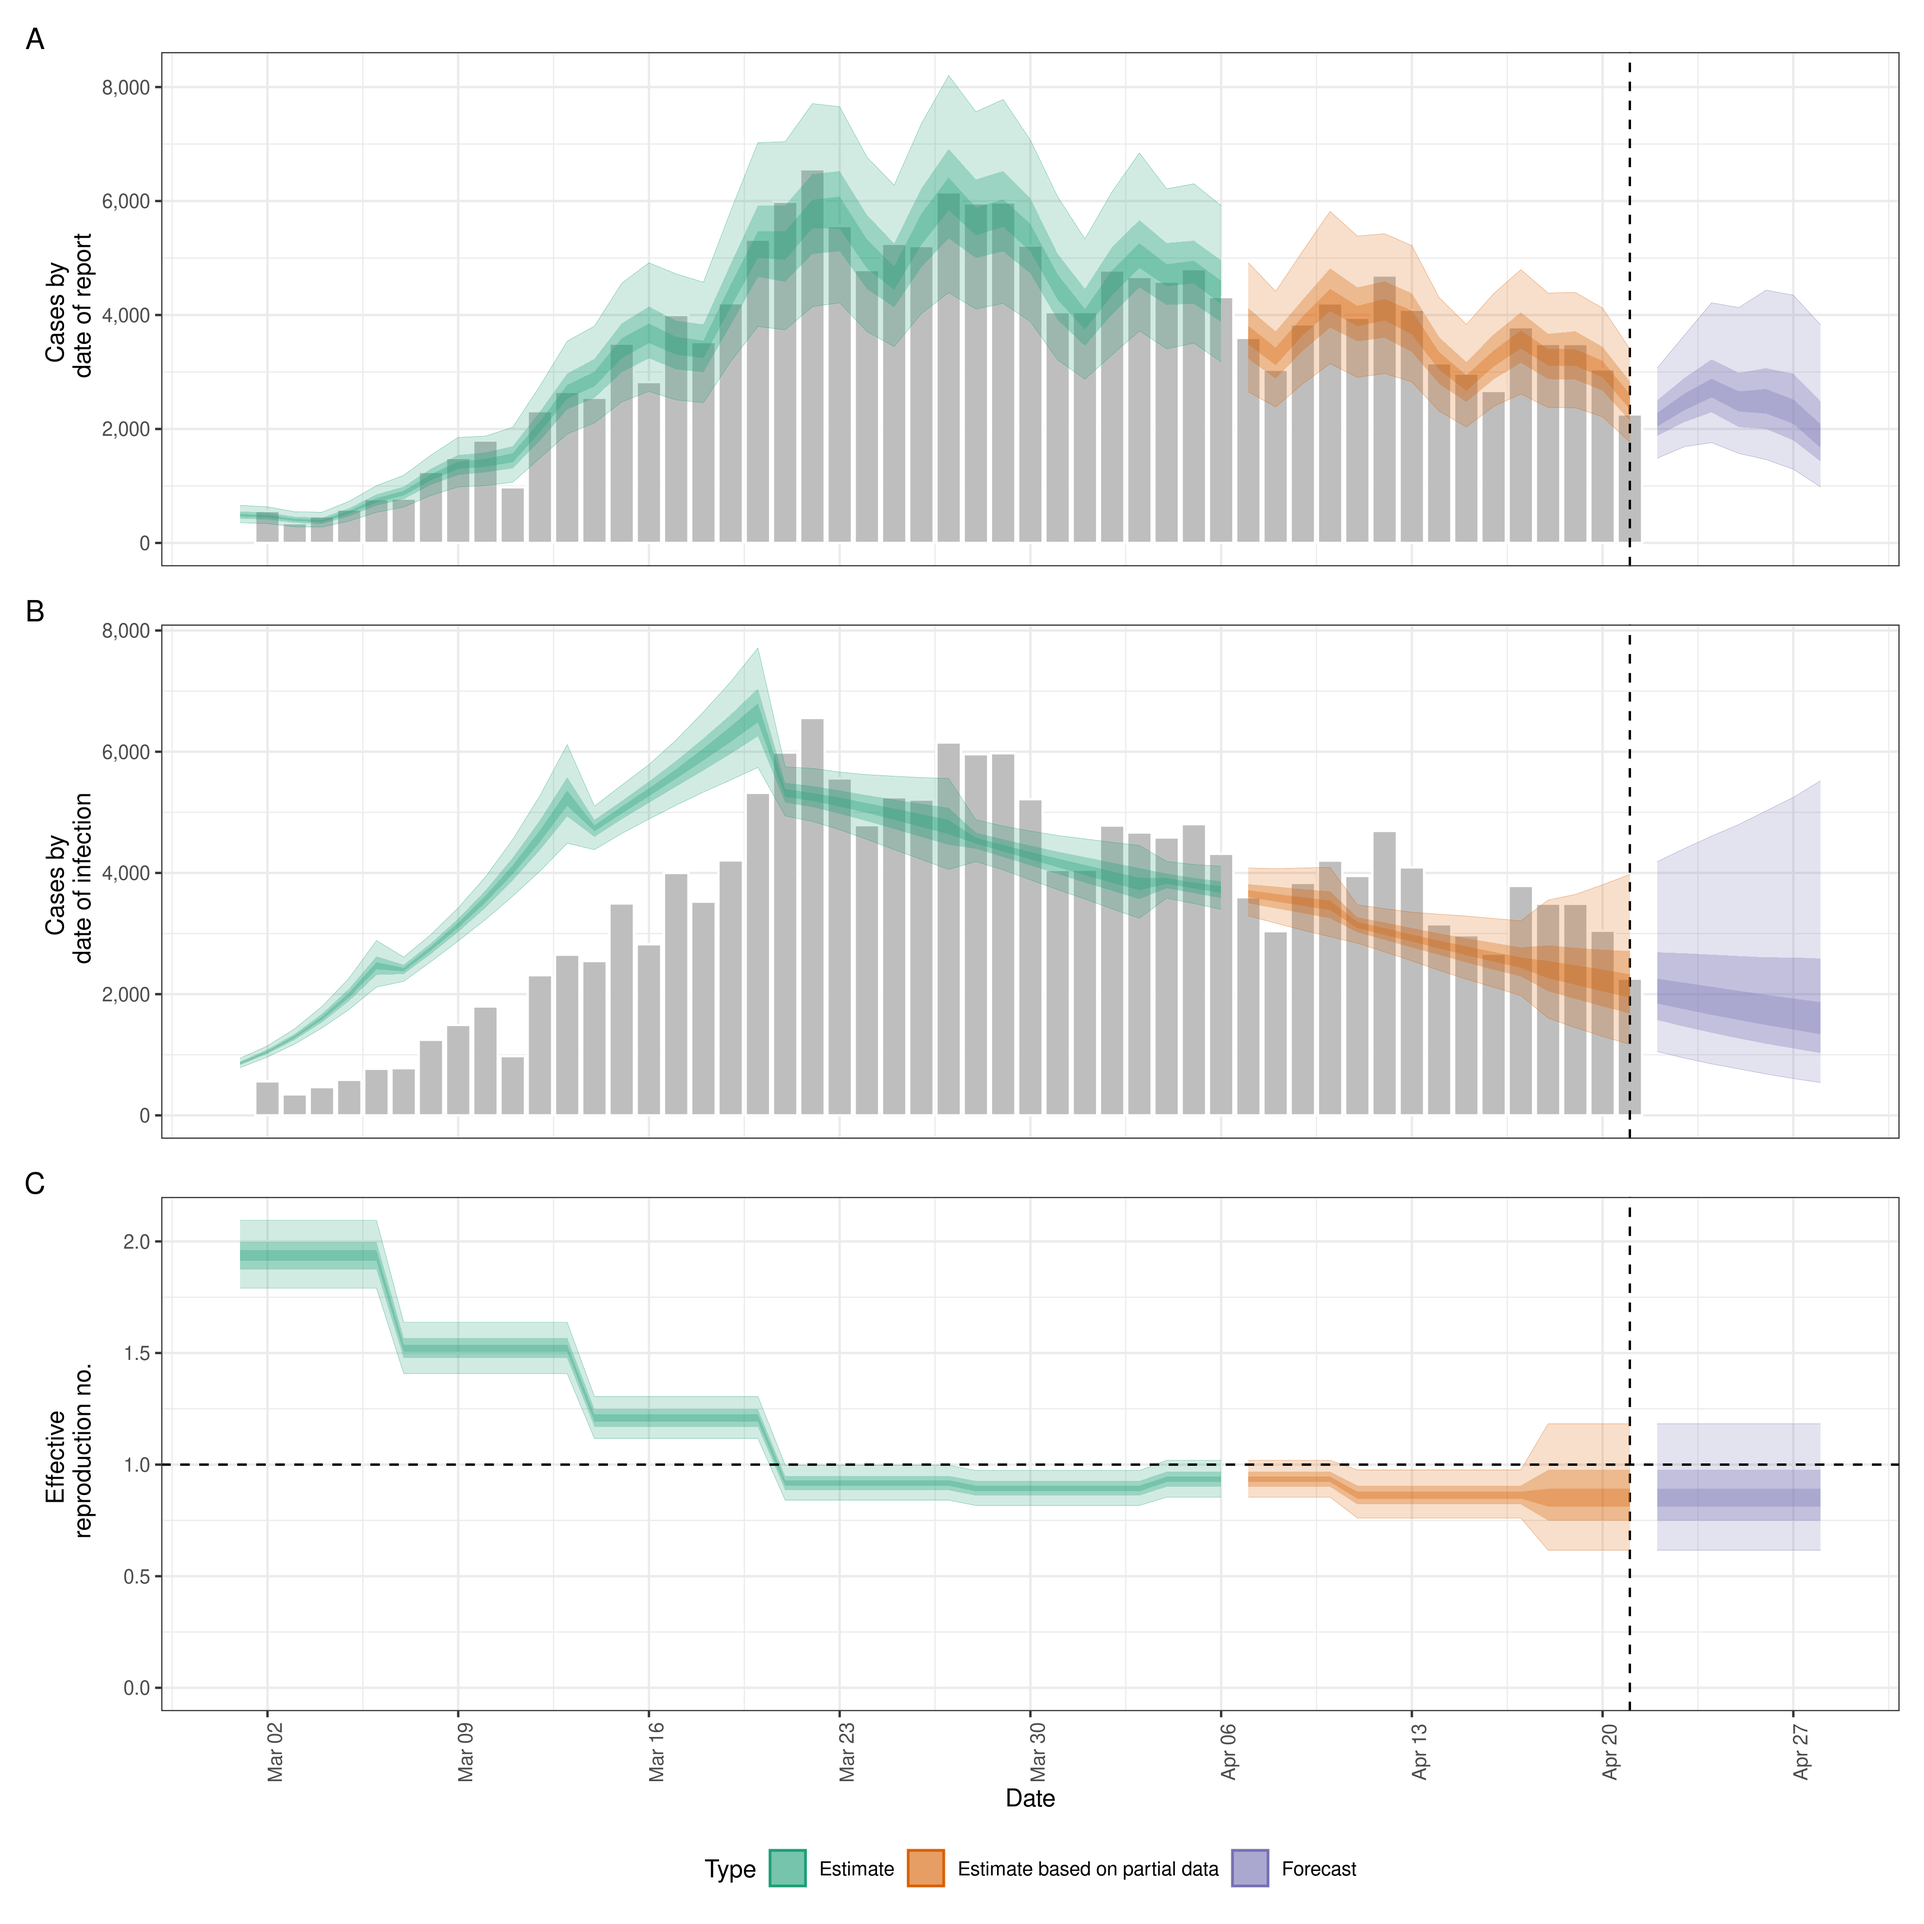
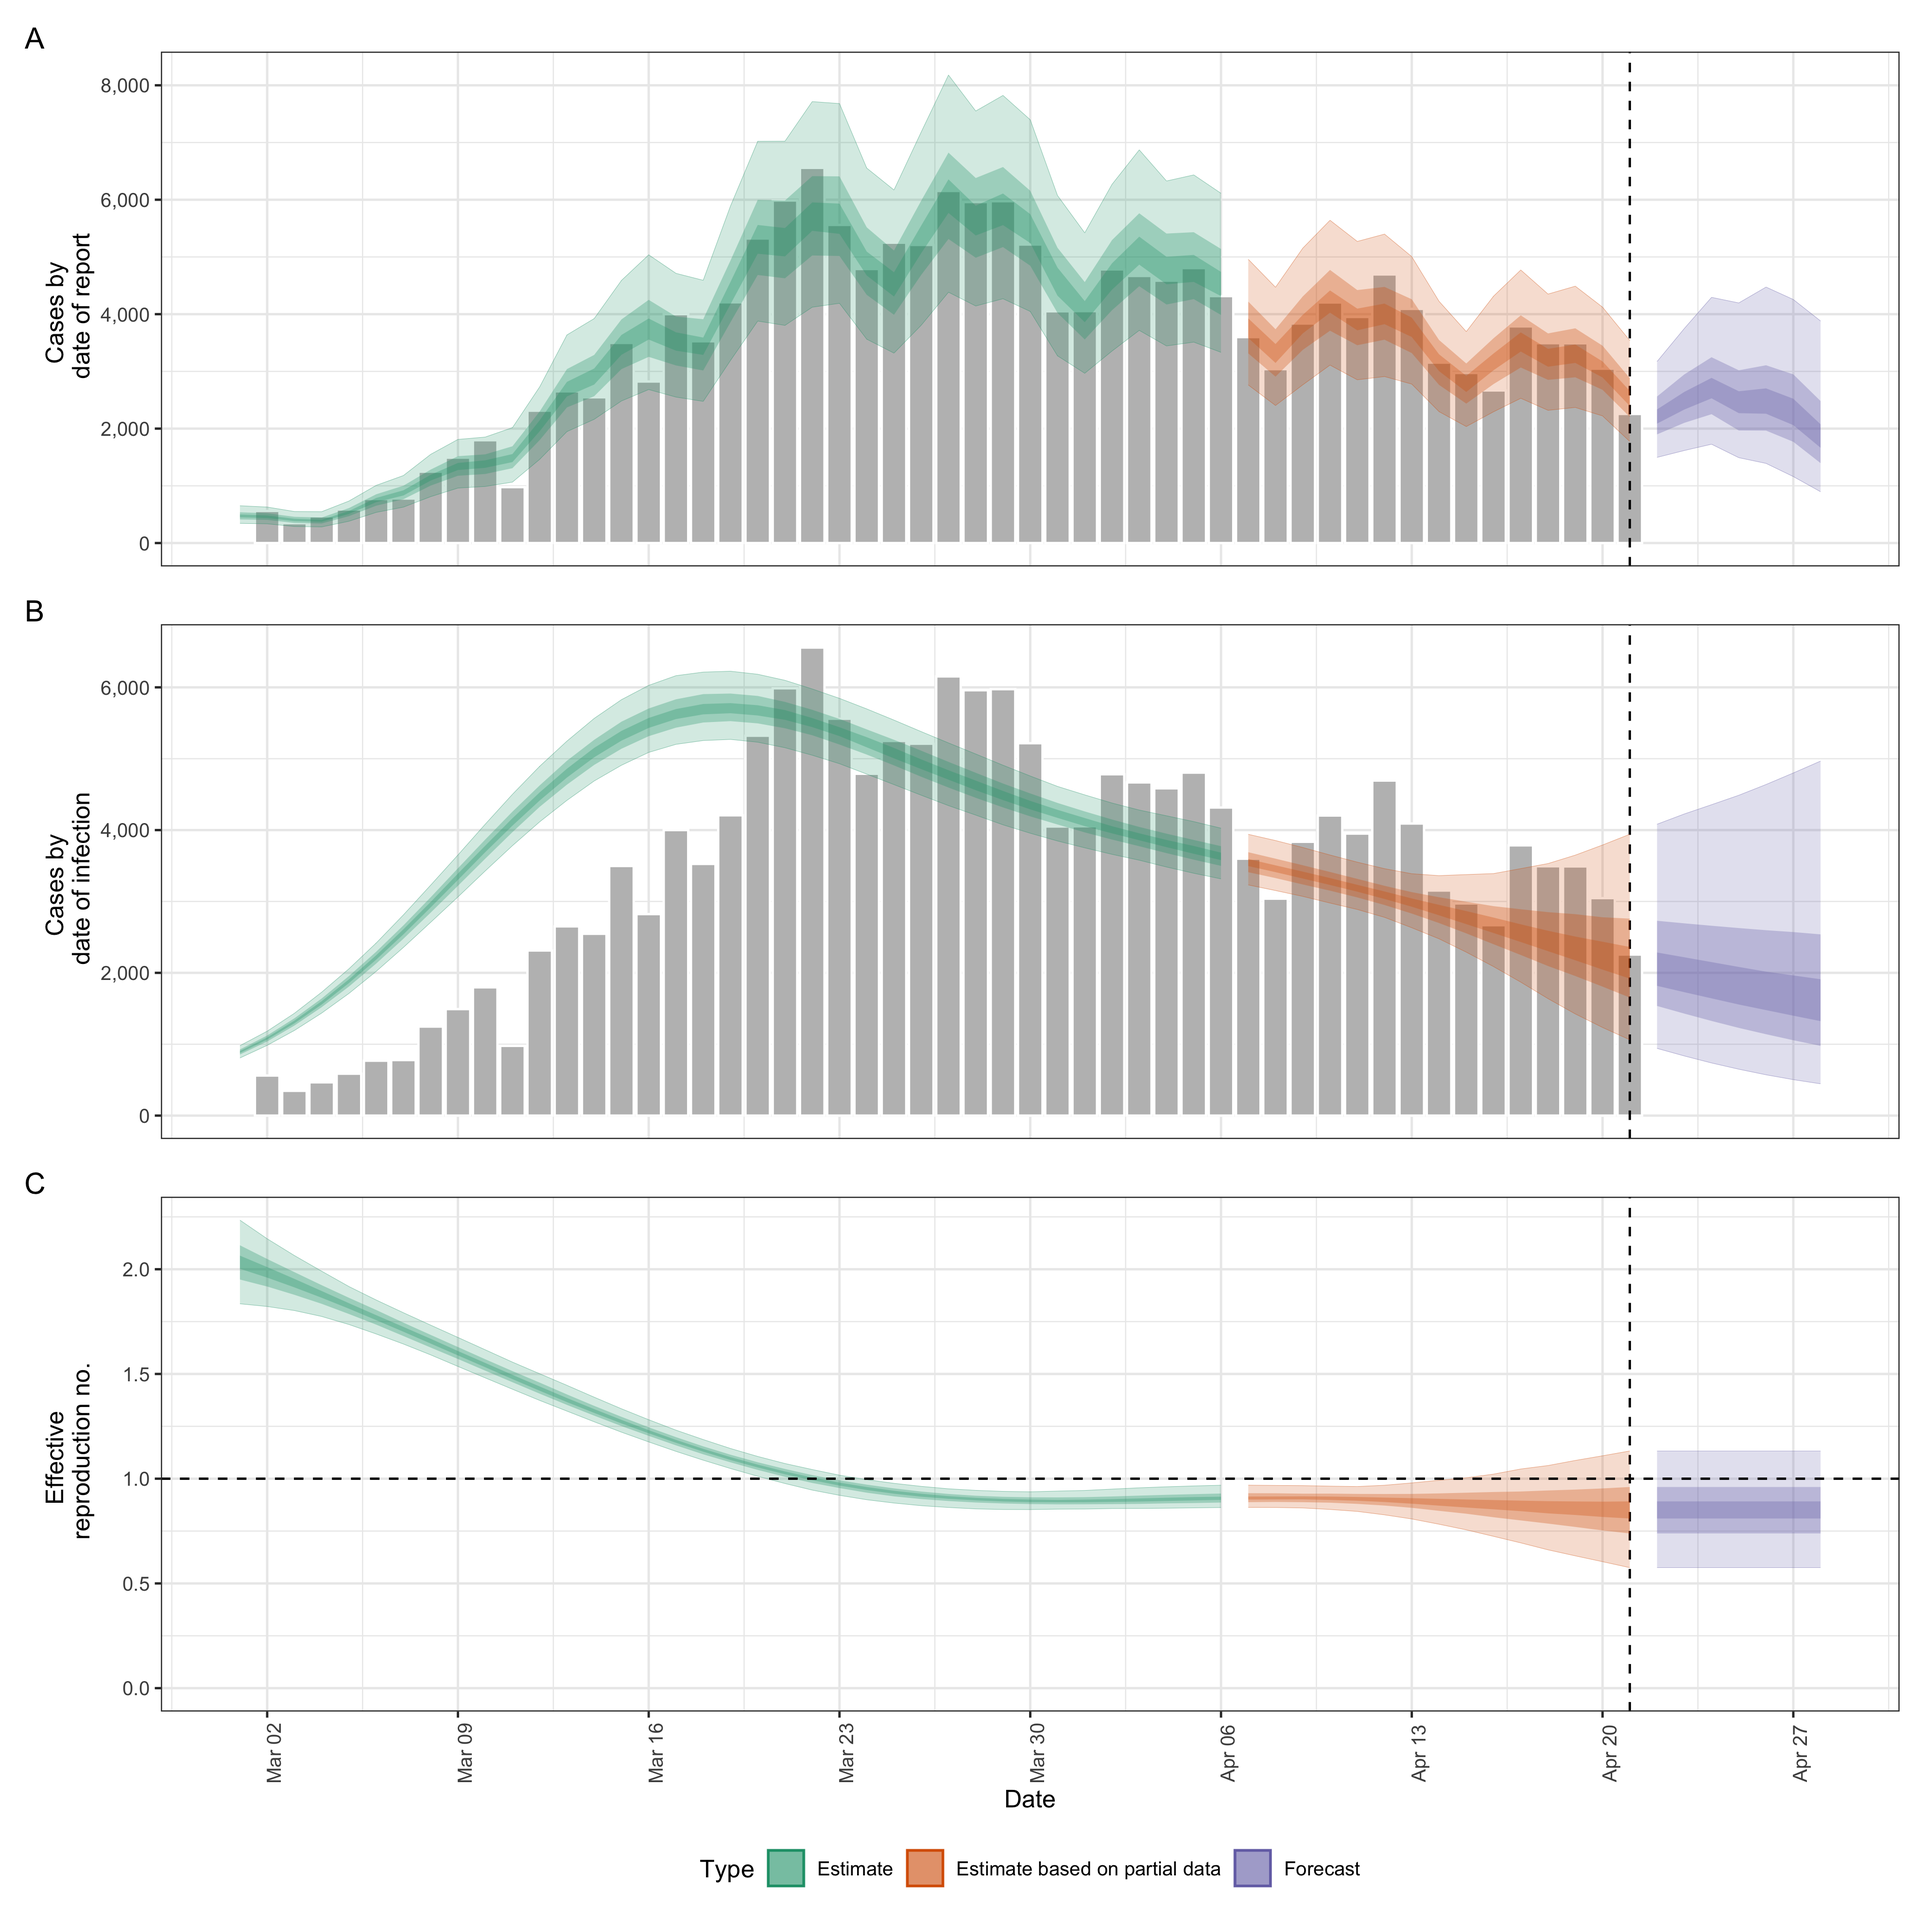
update rendered README

diff --git a/README.md b/README.md
@@ -200,6 +200,7 @@ Load example case data from `{EpiNow2}`.
 reported_cases <- example_confirmed[1:60]
 head(reported_cases)
 #>          date confirm
+#>        <Date>   <num>
 #> 1: 2020-02-22      14
 #> 2: 2020-02-23      62
 #> 3: 2020-02-24      53
@@ -213,18 +214,24 @@ number, the rate of growth and forecast these estimates into the future
 by 7 days. Summarise the posterior and return a summary table and plots
 for reporting purposes. If a `target_folder` is supplied results can be
 internally saved (with the option to also turn off explicit returning of
-results). *Note: Here we use a weekly random walk rather than the full
-daily Gaussian process model to reduce run-times.*.
+results). Here we use the default model parameterisation that priorities
+real-time performance over run-time or other considerations. For other
+formulations see the documentation for `estimate_infections()`.
 
 ``` r
 estimates <- epinow(
   reported_cases = reported_cases,
   generation_time = generation_time,
   delays = delay_opts(incubation_period, reporting_delay),
-  rt = rt_opts(prior = list(mean = 2, sd = 0.2), , rw = 7),
-  stan = stan_opts(cores = 4), gp = NULL,
+  rt = rt_opts(prior = list(mean = 2, sd = 0.2)),
+  stan = stan_opts(cores = 4),
   verbose = interactive()
 )
+#> WARN [2022-10-17 14:32:32] epinow: There were 7 divergent transitions after warmup. See
+#> https://mc-stan.org/misc/warnings.html#divergent-transitions-after-warmup
+#> to find out why this is a problem and how to eliminate them. - 
+#> WARN [2022-10-17 14:32:32] epinow: Examine the pairs() plot to diagnose sampling problems
+#>  -
 names(estimates)
 #> [1] "estimates"                "estimated_reported_cases"
 #> [3] "summary"                  "plots"                   
@@ -242,31 +249,33 @@ knitr::kable(summary(estimates))
 
 | measure                               | estimate               |
 |:--------------------------------------|:-----------------------|
-| New confirmed cases by infection date | 2124 (1171 – 3975)     |
+| New confirmed cases by infection date | 2129 (1062 – 3941)     |
 | Expected change in daily cases        | Likely decreasing      |
-| Effective reproduction no.            | 0.85 (0.62 – 1.2)      |
-| Rate of growth                        | -0.042 (-0.11 – 0.049) |
-| Doubling/halving time (days)          | -17 (14 – -6.2)        |
+| Effective reproduction no.            | 0.85 (0.58 – 1.1)      |
+| Rate of growth                        | -0.043 (-0.13 – 0.036) |
+| Doubling/halving time (days)          | -16 (19 – -5.5)        |
 
 Summarised parameter estimates can also easily be returned, either
 filtered for a single parameter or for all parameters.
 
 ``` r
 head(summary(estimates, type = "parameters", params = "R"))
-#>          date variable strat     type   median     mean         sd lower_90
-#> 1: 2020-03-01        R  <NA> estimate 1.938637 1.939263 0.09247069 1.790875
-#> 2: 2020-03-02        R  <NA> estimate 1.938637 1.939263 0.09247069 1.790875
-#> 3: 2020-03-03        R  <NA> estimate 1.938637 1.939263 0.09247069 1.790875
-#> 4: 2020-03-04        R  <NA> estimate 1.938637 1.939263 0.09247069 1.790875
-#> 5: 2020-03-05        R  <NA> estimate 1.938637 1.939263 0.09247069 1.790875
-#> 6: 2020-03-06        R  <NA> estimate 1.938637 1.939263 0.09247069 1.790875
+#>          date variable  strat     type   median     mean         sd lower_90
+#>        <Date>   <char> <char>   <char>    <num>    <num>      <num>    <num>
+#> 1: 2020-03-01        R   <NA> estimate 2.032944 2.034600 0.12263909 1.835007
+#> 2: 2020-03-02        R   <NA> estimate 1.985030 1.984939 0.09867913 1.822082
+#> 3: 2020-03-03        R   <NA> estimate 1.934373 1.933439 0.07997513 1.802737
+#> 4: 2020-03-04        R   <NA> estimate 1.880721 1.880345 0.06627518 1.774494
+#> 5: 2020-03-05        R   <NA> estimate 1.825444 1.825928 0.05691746 1.736169
+#> 6: 2020-03-06        R   <NA> estimate 1.769794 1.770473 0.05090067 1.690933
 #>    lower_50 lower_20 upper_20 upper_50 upper_90
-#> 1: 1.874161 1.913719  1.95999  1.99843 2.094506
-#> 2: 1.874161 1.913719  1.95999  1.99843 2.094506
-#> 3: 1.874161 1.913719  1.95999  1.99843 2.094506
-#> 4: 1.874161 1.913719  1.95999  1.99843 2.094506
-#> 5: 1.874161 1.913719  1.95999  1.99843 2.094506
-#> 6: 1.874161 1.913719  1.95999  1.99843 2.094506
+#>       <num>    <num>    <num>    <num>    <num>
+#> 1: 1.950837 2.002272 2.064961 2.114401 2.234420
+#> 2: 1.917444 1.960005 2.010231 2.048900 2.145482
+#> 3: 1.877844 1.913317 1.954001 1.986164 2.065259
+#> 4: 1.834894 1.863750 1.895996 1.923908 1.990647
+#> 5: 1.786278 1.811667 1.837823 1.863695 1.917388
+#> 6: 1.735544 1.756891 1.780755 1.805549 1.853105
 ```
 
 Reported cases are returned in a separate data frame in order to
@@ -274,20 +283,22 @@ streamline the reporting of forecasts and for model evaluation.
 
 ``` r
 head(summary(estimates, output = "estimated_reported_cases"))
-#>          date  type median     mean        sd lower_90 lower_50 lower_20
-#> 1: 2020-03-01 gp_rt  485.0 493.6445  95.01762   354.95   426.75    463.0
-#> 2: 2020-03-02 gp_rt  468.0 474.4640  90.45885   337.95   411.00    447.0
-#> 3: 2020-03-03 gp_rt  405.0 408.3520  80.65141   284.00   353.00    385.0
-#> 4: 2020-03-04 gp_rt  383.0 392.3720  78.99329   278.95   336.00    365.0
-#> 5: 2020-03-05 gp_rt  539.0 544.0185 106.53578   383.95   470.00    512.0
-#> 6: 2020-03-06 gp_rt  746.5 757.6270 144.86061   537.95   654.75    710.6
+#>          date   type median     mean        sd lower_90 lower_50 lower_20
+#>        <Date> <char>  <num>    <num>     <num>    <num>    <num>    <num>
+#> 1: 2020-03-01  gp_rt    475 483.0345  97.82515   344.00   412.00      449
+#> 2: 2020-03-02  gp_rt    459 468.1570  91.35410   336.00   405.00      437
+#> 3: 2020-03-03  gp_rt    404 409.2815  80.80733   289.00   351.00      383
+#> 4: 2020-03-04  gp_rt    389 397.9765  80.98656   281.95   342.00      372
+#> 5: 2020-03-05  gp_rt    533 543.8765 109.13966   380.95   470.00      509
+#> 6: 2020-03-06  gp_rt    749 759.3375 146.37409   535.95   652.75      714
 #>    upper_20 upper_50 upper_90
-#> 1:      508      553   659.00
-#> 2:      491      534   634.00
-#> 3:      423      460   547.05
-#> 4:      405      442   539.00
-#> 5:      565      610   731.05
-#> 6:      785      852  1005.10
+#>       <num>    <num>    <num>
+#> 1:      500   538.00   652.00
+#> 2:      483   521.00   629.10
+#> 3:      425   459.00   551.05
+#> 4:      409   446.00   548.05
+#> 5:      560   611.00   734.00
+#> 6:      788   852.25  1008.05
 ```
 
 A range of plots are returned (with the single summary plot shown
@@ -313,6 +324,7 @@ reported_cases <- data.table::rbindlist(list(
    reported_cases[, region := "realland"]))
 head(reported_cases)
 #>          date confirm   region
+#>        <Date>   <num>   <char>
 #> 1: 2020-02-22      14 testland
 #> 2: 2020-02-23      62 testland
 #> 3: 2020-02-24      53 testland
@@ -322,8 +334,9 @@ head(reported_cases)
 ```
 
 Calling `regional_epinow()` runs the `epinow()` on each region in turn
-(or in parallel depending on the settings used). Here we also switch to
-using a weekly random walk rather than the full Gaussian process model.
+(or in parallel depending on the settings used). Here we switch to using
+a weekly random walk rather than the full Gaussian process model giving
+us piecewise constant estimates by week.
 
 ``` r
 estimates <- regional_epinow(
@@ -334,19 +347,19 @@ estimates <- regional_epinow(
   gp = NULL,
   stan = stan_opts(cores = 4, warmup = 250, samples = 1000)
 )
-#> INFO [2022-10-15 22:03:36] Producing following optional outputs: regions, summary, samples, plots, latest
-#> INFO [2022-10-15 22:03:37] Reporting estimates using data up to: 2020-04-21
-#> INFO [2022-10-15 22:03:37] No target directory specified so returning output
-#> INFO [2022-10-15 22:03:37] Producing estimates for: testland, realland
-#> INFO [2022-10-15 22:03:37] Regions excluded: none
-#> INFO [2022-10-15 22:14:01] Completed estimates for: testland
-#> INFO [2022-10-15 22:23:16] Completed estimates for: realland
-#> INFO [2022-10-15 22:23:16] Completed regional estimates
-#> INFO [2022-10-15 22:23:16] Regions with estimates: 2
-#> INFO [2022-10-15 22:23:16] Regions with runtime errors: 0
-#> INFO [2022-10-15 22:23:16] Producing summary
-#> INFO [2022-10-15 22:23:16] No summary directory specified so returning summary output
-#> INFO [2022-10-15 22:23:17] No target directory specified so returning timings
+#> INFO [2022-10-17 14:32:38] Producing following optional outputs: regions, summary, samples, plots, latest
+#> INFO [2022-10-17 14:32:38] Reporting estimates using data up to: 2020-04-21
+#> INFO [2022-10-17 14:32:38] No target directory specified so returning output
+#> INFO [2022-10-17 14:32:38] Producing estimates for: testland, realland
+#> INFO [2022-10-17 14:32:38] Regions excluded: none
+#> INFO [2022-10-17 14:46:01] Completed estimates for: testland
+#> INFO [2022-10-17 14:54:19] Completed estimates for: realland
+#> INFO [2022-10-17 14:54:19] Completed regional estimates
+#> INFO [2022-10-17 14:54:19] Regions with estimates: 2
+#> INFO [2022-10-17 14:54:19] Regions with runtime errors: 0
+#> INFO [2022-10-17 14:54:19] Producing summary
+#> INFO [2022-10-17 14:54:19] No summary directory specified so returning summary output
+#> INFO [2022-10-17 14:54:20] No target directory specified so returning timings
 ```
 
 Results from each region are stored in a `regional` list with across
@@ -371,8 +384,8 @@ knitr::kable(estimates$summary$summarised_results$table)
 
 | Region   | New confirmed cases by infection date | Expected change in daily cases | Effective reproduction no. | Rate of growth         | Doubling/halving time (days) |
 |:---------|:--------------------------------------|:-------------------------------|:---------------------------|:-----------------------|:-----------------------------|
-| realland | 2160 (1212 – 3755)                    | Likely decreasing              | 0.86 (0.64 – 1.1)          | -0.04 (-0.11 – 0.039)  | -17 (18 – -6.6)              |
-| testland | 2178 (1230 – 3902)                    | Likely decreasing              | 0.86 (0.62 – 1.2)          | -0.039 (-0.11 – 0.044) | -18 (16 – -6.3)              |
+| realland | 2136 (1150 – 3944)                    | Likely decreasing              | 0.85 (0.61 – 1.2)          | -0.041 (-0.11 – 0.044) | -17 (16 – -6)                |
+| testland | 2146 (1154 – 3997)                    | Likely decreasing              | 0.86 (0.61 – 1.2)          | -0.04 (-0.12 – 0.045)  | -17 (15 – -6)                |
 
 A range of plots are again returned (with the single summary plot shown
 below).
